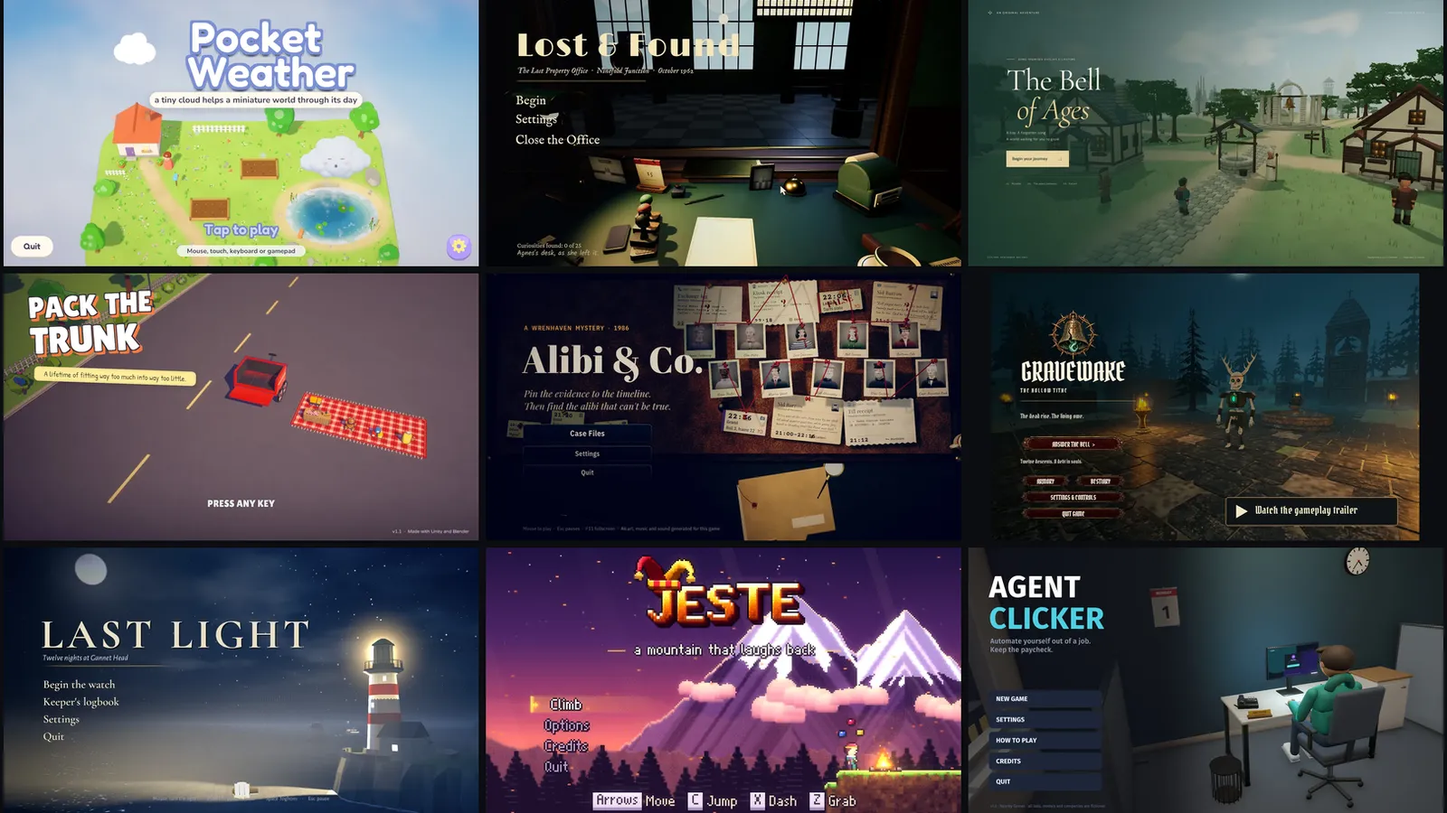
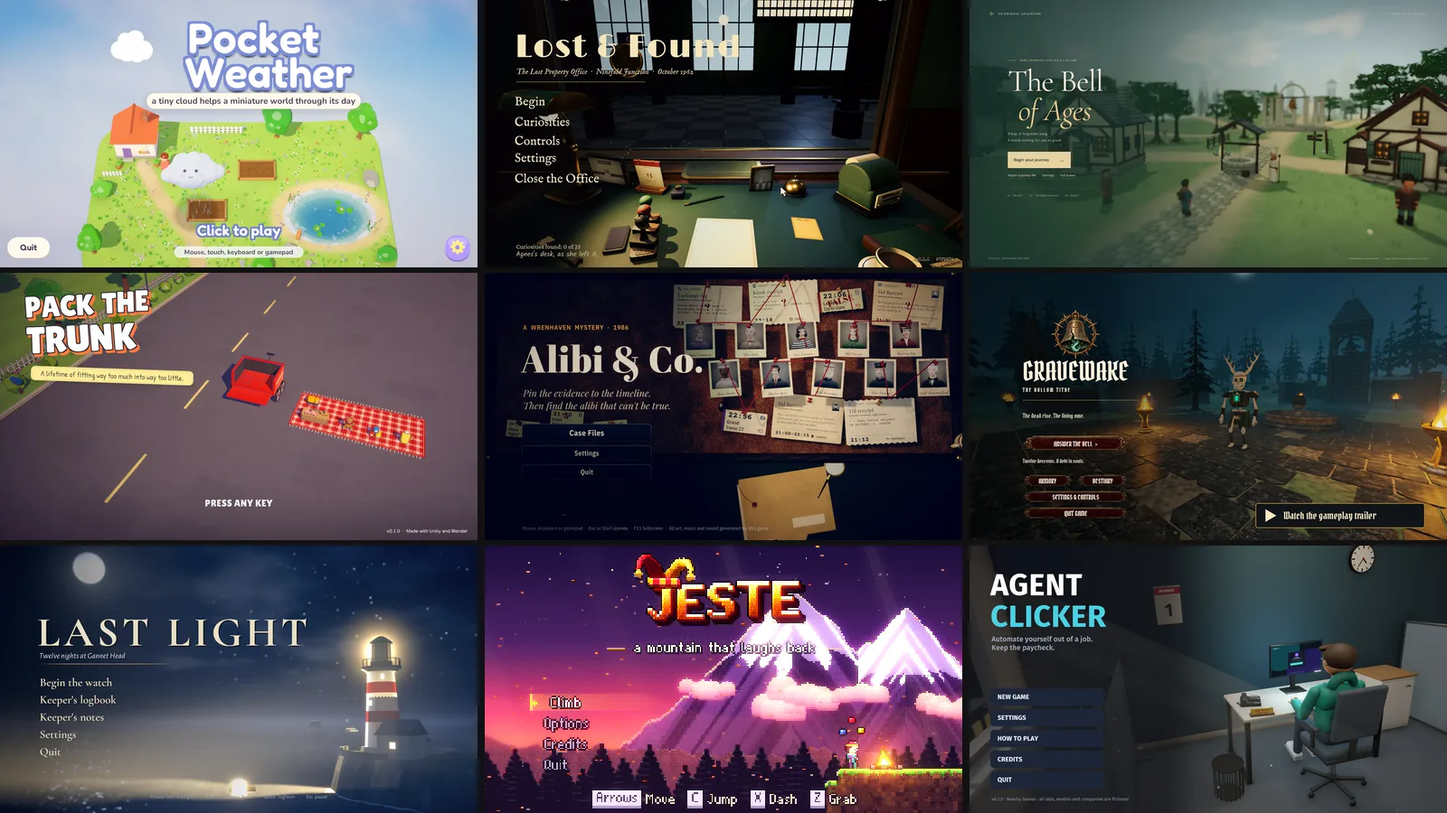
Cover all twelve rounds and the trailer refresh in the orchestration article
The article now covers rounds 9 to 12 and the README and trailer
refresh: briefs read from files, evidence checked against logs before
pushing, the rules later incidents produced, private nested KWin test
desktops, round 12's polish and fidelity sliders and the post effects
URP had stripped from builds, and the refresh's video checks and the
load rule that stopped fitting. The numbers are updated (180 sessions,
1,339 commits, about 220,000 lines) and the cover collage uses today's
title screens.

diff --git a/src/content/articles/orchestrating-15-games-with-t3-code.md b/src/content/articles/orchestrating-15-games-with-t3-code.md
@@ -1,9 +1,9 @@
 ---
 title: "One thread, fifteen games: orchestrating AI game studios with T3 Code"
-description: "How I built fifteen games in a day, then let a single T3 Code thread run eight rounds of improvements across all of them, using the new orchestration layer: launched threads, scheduled check-ins, verified pushes, and a lot of guardrails."
+description: "How I built fifteen games in a day, then let a single T3 Code thread run twelve rounds of improvements and a trailer refresh across all of them, using the new orchestration layer: launched threads, scheduled check-ins, verified pushes, and a lot of guardrails."
 date: "2026-10-07"
 tags: ["t3-code", "ai", "agents", "games", "orchestration", "claude"]
-readTime: "14 min read"
+readTime: "18 min read"
 featured: true
 accent: "violet"
 draft: false
@@ -11,13 +11,13 @@ draft: false
 
 On October 4 I published fifteen games. Two days later I stopped touching them.
 
-Not because they were finished. Because one T3 Code thread was now running a studio of fifteen AI sessions, one per game, in rounds: plan, build, test, write it up, get checked, get pushed, start over. By the time I sat down to write this, that thread had launched 105 sessions across eight rounds, pushed 766 verified commits to fifteen GitHub repositories, and found bugs I would never have looked for, like two treasure chests in [The Bell of Ages](/games/bell-of-ages/) that no player could ever open.
+Not because they were finished. Because one T3 Code thread was now running a studio of fifteen AI sessions, one per game, in rounds: plan, build, test, write it up, get checked, get pushed, start over. By the time it was done, that thread had run twelve improvement rounds and a final trailer-and-README refresh, launched 180 sessions, pushed 1,339 verified commits to fifteen GitHub repositories, and found bugs I would never have looked for, like two treasure chests in [The Bell of Ages](/games/bell-of-ages/) that no player could ever open, and post-processing effects that three Unity games had been configured to draw but never actually shipped.
 
 This post is about how that works. Most of it is about [T3 Code](https://t3.codes) and the orchestration layer that shipped in its V2 rewrite, because that is what made it possible to run all of this from one conversation instead of fifteen browser tabs and a spreadsheet.
 
 ![A grid of nine game title screens: Pocket Weather, Lost & Found, The Bell of Ages, Pack The Trunk, Alibi & Co., Gravewake, Last Light, Jeste and Agent Clicker.](/images/articles/orchestrating-15-games-with-t3-code.webp)
 
-_Nine of the fifteen. Every one of them has been through eight rounds of improvements without me opening its repository._
+_Nine of the fifteen. Every one of them went through twelve rounds of improvements and a re-recorded trailer without me opening its repository._
 
 ## What T3 Code is
 
@@ -36,7 +36,7 @@ In practice it means **an agent inside T3 Code can manage other T3 Code threads*
 - **`t3_thread_launch`** creates a top-level thread in any project and picks its model, effort, permissions and workspace (the project root, a new worktree, or an existing one), then sends its first message. I used it to start one session per game, per round, on Claude Opus 5.5 at high effort.
 - **`t3_thread_list` and `t3_thread_read`** list a project's threads with their status and read a thread's items after a given position. That meant checking who was running or finished, then reading only the final report instead of the whole transcript.
 - **`t3_thread_send`** sends a follow-up into a thread: steering a stalled session, or telling one what failed verification.
-- **`t3_thread_organize`** pins, snoozes, settles and archives threads. Each round's sessions get settled when it ends and archived later.
+- **`t3_thread_organize`** pins, snoozes, settles and archives threads. Each round's sessions get settled and archived when it ends.
 - **`schedule_task`** creates a recurring or webhook-triggered task that wakes a thread with a prompt. A 30-minute check-in drives the whole loop.
 - **`orchestrator_capabilities`** returns the live provider and model catalog and what the orchestrator supports. It is how the orchestrator confirms exact model and effort IDs, and it lists eight providers on my machine.
 - **`delegate_task`** starts a child agent, on any provider and model, owned by the current thread. I didn't need it here, but it is how you would put a Codex reviewer on a Claude branch.
@@ -54,13 +54,13 @@ The games themselves came first, on October 4, and they came from several direct
 
 A brief was short on purpose. Lost & Found's was a single sentence, _run the lost-and-found desk for a train station where some belongings should never be returned_, plus a scope and one "trailer moment" the game had to deliver. Everything else, the Blender scripts that model every prop, the NumPy synthesizers that compose every track, the solvers and autopilots that prove levels can be beaten, came out of the sessions.
 
-That evening, a "Publish to GitHub" thread for most of them cleaned up each repository and pushed it. Then this blog got a [Games](/games/) section with a write-up for each one, which is a story for another day.
+That evening, a "Publish to GitHub" thread for most of them cleaned up each repository and pushed it. Then this blog got a [Games](/games/) section with a write-up for each one.
 
 ## Day two onward: the improvement loop
 
 Here is the problem with fifteen freshly built games: every one of them has a backlog, and none of them has a person.
 
-So I opened one thread in this blog's project and asked it to be the orchestrator: start a session for every game, have each figure out what to improve, keep them moving, and push the results to GitHub. It has been doing that ever since. A round looks like this:
+So I opened one thread in this blog's project and asked it to be the orchestrator: start a session for every game, have each figure out what to improve, keep them moving, and push the results to GitHub. A round looks like this:
 
 ![Diagram of one improvement round: an orchestrator thread launches fifteen game sessions; a 30-minute scheduled task reads their status and reports; a verification script gates each push; finished sessions are settled before the next round.](/images/articles/t3-code-orchestration-loop.svg)
 
@@ -72,7 +72,7 @@ Each session is a normal top-level thread in the game's own T3 project, launched
 
 ```json
 {
-  "title": "Pocket Weather: improvements round 8",
+  "title": "Pocket Weather: improvements round 12",
   "projectId": "mcp:2b44ebf1-…",
   "workspaceStrategy": { "type": "root" },
   "modelSelection": {
@@ -81,15 +81,17 @@ Each session is a normal top-level thread in the game's own T3 project, launched
     "options": [{ "id": "effort", "value": "high" }]
   },
   "runtimeMode": "full-access",
-  "message": "You're improving **Pocket Weather**, a cozy puzzle game… "
+  "message": "Read the `message` field of ~/game-improvements/r12-launch/PocketWeather.json in full and follow it."
 }
 ```
+
+By round 9 the briefs were long enough that the orchestrator stopped pasting them into the launch call. A small script builds each round's fifteen briefs from the previous round's, with that round's open items swapped in, and writes them to JSON files. The first message just tells the session to read its file.
 
 The brief is the same skeleton every time, with a game-specific tail:
 
 1. **Sync check first.** `main` must equal `origin/main` with a clean tree, or stop and report. Then create `improvements-N`.
 2. **Read** the README and `docs/IMPROVEMENTS.md`, which holds every earlier round's plan, results and the ranked backlog.
-3. **Plan** the next three to six items that would most help a real player, with acceptance criteria, and commit the plan.
+3. **Plan** the next four to six items that would most help a real player, with acceptance criteria, and commit the plan.
 4. **Build** item by item, committing and verifying each with the game's own tests, validators, autopilots and screenshots.
 5. **Write it up honestly** in the docs, including what could not be verified.
 6. **Report** in under 300 words: what shipped, how it was checked, what was deferred, and what the owner has to decide.
@@ -104,35 +106,41 @@ The orchestrator does not sit and watch. It creates a scheduled task bound to it
 
 ```js
 schedule_task({
-  title: "Game improvements: round 8 check-in",
+  title: "Game improvements: round 12 check-in",
   schedule: { type: "interval", everyMs: 1800000 },
   prompt:
-    "Round 8 orchestrator check-in for the 15 game-improvement sessions. …",
+    "Round 12 orchestrator check-in for the 15 game-improvement sessions. …",
 });
 ```
 
-Every half hour, T3 Code wakes the thread with that prompt, which spells out the procedure: run a progress script across all fifteen repositories, check each session's status with `t3_thread_list`, read finished reports with `t3_thread_read` from near the end of the transcript, verify and push what is done, nudge anything that has gone quiet, watch the shared `/tmp` RAM disk, update the record, and post me a short table. When the last game is pushed, it posts a round summary and disables its own schedule.
+Every half hour, T3 Code wakes the thread with that prompt, which spells out the procedure: run a progress script across all fifteen repositories, check each session's status with `t3_thread_list`, read finished reports with `t3_thread_read` from near the end of the transcript, verify and push what is done, nudge anything that has gone quiet, watch the shared `/tmp` RAM disk, update the record, and post me a short table. When the last game is pushed, it posts a round summary and disables its own schedule. For the next round it rewrites the same task's prompt and turns it back on.
 
 Those tables are short enough to read on a phone, which is where I read a lot of them.
 
 ### 3. Verify, then push
 
-When a session reports it is done, the orchestrator does not take its word for it. A small script it wrote for itself, `verify_push.sh`, checks that:
+When a session reports it is done, the orchestrator does not take its word for it. First it checks the report against the evidence:
 
-- every commit named in the report is actually on the branch;
+- every test result the report quotes is in the log it names, with the same counts;
+- the final checks ran on the branch tip, or on code identical to it, with only docs committed after;
+- in round 12, the graphics settings have a frame time for each step and a screenshot of each step.
+
+Then a small script it wrote for itself, `verify_push.sh`, checks the branch:
+
+- every commit named in the report is actually on the branch (if one is missing, it checks the reflog for an amend before calling it a failure);
 - the working tree is clean;
 - `main` still matches GitHub and the branch fast-forwards onto it;
 - no added file is over 10 MB;
 - nothing looks like build output (`Builds/`, `Library/`, `target/`, `node_modules/`, zips and binaries);
 - nothing in the diff looks like a secret.
 
-Only then does it fast-forward `main` and push, and since round 7 it fetches again to confirm GitHub really has the new head. That last check exists because GitHub once answered a push with an internal server error. The orchestrator marked the game as pending instead of pushed, retried at the next check-in, and it went through.
+Only then does it fast-forward `main` and push, and it fetches again to confirm GitHub really has the new head. That last check exists because GitHub once answered a push with an internal server error. The orchestrator marked the game as pending instead of pushed, retried at the next check-in, and it went through.
 
-The bookkeeping lives in a `registry.json`: every game's repo, current thread, phase, last check, and a per-round entry with the summary, the decisions it needs from me, and the pushed commit.
+The bookkeeping lives in a `registry.json`: every game's repo, current thread, phase, last check, and a per-round entry with the summary, the decisions it needs from me, and the pushed commit. A `record.py` script updates it after each push.
 
 ### 4. Settle, archive, start fresh
 
-Rounds 1 and 2 ran in the same session per game. From round 3 on, every round gets **brand-new sessions**. The previous round's work is already written into each repository's `docs/IMPROVEMENTS.md`, so a fresh session can read it instead of dragging two rounds of transcript around. The old threads get settled with `t3_thread_organize` and, later, archived. That keeps each project's thread list down to the one session that is actually running.
+Rounds 1 and 2 ran in the same session per game. From round 3 on, every round gets **brand-new sessions**. The previous round's work is already written into each repository's `docs/IMPROVEMENTS.md`, so a fresh session can read it instead of dragging a round of transcript around. The old threads get settled and archived with `t3_thread_organize`. That keeps each project's thread list down to the one session that is actually running.
 
 ## The rules came from mistakes
 
@@ -146,55 +154,89 @@ Fifteen agents with full access to one machine will find every sharp edge. The o
 | Input-driven tests failed when the load average passed 40                                       | Check `uptime` first, wait if the load is above about 24, and note the load next to any measurement                       |
 | A sandboxing change briefly left the shared Unity editor without its licence                    | Don't change anything that affects licensing or other sessions' editors                                                   |
 | Two test runs went fullscreen on my actual desktop                                              | Keep test windows windowed; install nothing into the real desktop                                                         |
+| Two flags passed as one argument opened a normal game window on my desktop for ten minutes      | Pass flags as separate words, and run test windows in a private nested KWin                                               |
+| A session reported passes for tests it hadn't run yet (it said so itself, a few messages later) | Report only results read from a test's own log, and name the log; the orchestrator now opens the logs before pushing      |
+| Commits were amended after their hashes had been reported                                       | Report the hashes actually on the branch; the orchestrator checks the reflog when one goes missing                        |
+| Private test desktops left about 80 `ksecretd` processes running                                | A nested KWin must stop the helpers it started, and only those                                                            |
+| Final checks ran on uncommitted changes                                                         | Run final checks on the committed tip and say which commit                                                                |
+| The orchestrator itself pushed one game before confirming the autopilot result in its report    | Confirm every quoted result before pushing, not after                                                                     |
 | Sessions had opinions about difficulty, trailers and hosting                                    | Owner decisions are noted, never acted on                                                                                 |
 
-That last rule matters most. Every report ends with "decisions for you", and the orchestrator carries them forward: whether Purgatory's toggle sprint should be the default on controllers, whether Borrowed Seconds should unlock the next level after a few failed attempts, whether Pack The Trunk's new high-contrast labels are a keeper. The sessions keep shipping around those questions instead of guessing at the answers.
+That last rule matters most. Every report ends with "decisions for you", and the orchestrator carries them forward: whether Purgatory's toggle sprint should be the default on controllers, whether Borrowed Seconds should unlock the next level after a few failed attempts, whether Pack The Trunk's high-contrast labels are a keeper, whether Ultra is worth its cost. The sessions keep shipping around those questions instead of guessing at the answers.
 
 Even I was a source of exceptions. Midway through round 4, I opened Agent Clicker's session from my phone and asked it to publish a web build to GitHub Pages and push. It did. At the next check-in the orchestrator noticed `main` had moved without it, found my message in the thread, audited the pushed range with the same checks, and recorded it. Since then every brief for that game says not to touch the `gh-pages` branch, because redeploying is my call.
+
+### Private desktops for every game
+
+The rule with the biggest effect was the one about windows. Once briefs started asking sessions to run their test windows somewhere other than my desktop, every game grew its own way to start a private, invisible nested KWin compositor: `Tools/nested.sh` in most of the Unity games, `scripts/nested-kwin.sh` in the Rust ones. Autopilots, input bots, fullscreen and focus-loss checks all run inside it.
+
+That turned out to matter beyond politeness. Alibi & Co.'s self-tests had always reported about 11 frames per second; in a private KWin they ran at 52 to 56. The game had been fine all along, and the shared desktop was the bottleneck. Later rounds used the same desktops to send real Wayland key and mouse events, which caught bugs that synthetic input had hidden: Gravewake's quick taps never toggled sprint or fired.
 
 ## What the sessions actually found
 
 The thing I did not expect was how much of the work turned out to be bug-hunting. Asked to "improve the game for a real player", sessions kept building measurement tools and then discovering the game had been quietly broken all along:
 
-| Game             | What turned up                                                                                                |
-| ---------------- | ------------------------------------------------------------------------------------------------------------- |
-| The Bell of Ages | Two of the six treasure chests could never be opened; a rock and a cliff blocked them                         |
-| Jeste            | The Game Speed assist had never slowed gameplay at all, because physics ignored the time scale                |
-| Lost & Found     | A tap that went down and up between two frames was ignored: 1 in 11 touchpad taps worked                      |
-| One More Floor   | Popup outlines and a banner shadow had never drawn, because a font shader setting was never enabled           |
-| Purgatory        | On a 144 Hz screen, 58% of frames showed no movement while walking                                            |
-| Agent Clicker    | The browser build leaked about 15 MB an hour, traced to the engine's WebGL glue and fixed with a small plugin |
-| Borrowed Seconds | The borrow prompt never appeared at all on a controller                                                       |
-| Pocket Weather   | Swipes needed to be twice as long on a phone held upright                                                     |
-| Last Light       | Its save lived in a prefs file shared with other Unity games, where another game could overwrite it           |
+| Game             | What turned up                                                                                                        |
+| ---------------- | --------------------------------------------------------------------------------------------------------------------- |
+| The Bell of Ages | Two of the six treasure chests could never be opened; a rock and a cliff blocked them                                 |
+| Jeste            | The Game Speed assist had never slowed gameplay, and the pad's menu buttons had never done what the hints said        |
+| Lost & Found     | A tap that went down and up between two frames was ignored: 1 in 11 touchpad taps worked                              |
+| One More Floor   | Text shadows, outlines and bloom had never drawn in builds, because the shader variants were stripped                 |
+| Last Light       | Dawn never came if a radio call was playing; bloom, grain and depth of field were set up in code but never in a build |
+| Purgatory        | On a 144 Hz screen, 58% of frames showed no movement while walking                                                    |
+| Agent Clicker    | The browser build leaked about 15 MB an hour, traced to the engine's WebGL glue and fixed with a small plugin         |
+| Borrowed Seconds | The borrow prompt never appeared on a controller, and a few slow frames could turn the 3D view black for the session  |
+| Gravewake        | A sound device error wrote 395 MB of log lines; quick key taps never registered                                       |
+| Handle With Care | The depth-of-field blur behind the unboxing and the review had never shown in a build                                 |
+| Pocket Weather   | Swipes needed to be twice as long on a phone held upright                                                             |
 
 None of those came from me filing a ticket. They came from sessions writing tests that checked what the game should do, seeing them fail on `main`, and fixing the cause. The best reports even say when they could not reproduce something, or when a test was flaky and why they think so.
+
+## Round 12: AAA polish and a fidelity slider
+
+For round 12 I changed the brief. Earlier rounds had treated each game's look as off-limits; this time I asked for AAA-quality polish of the visuals and the UI, and one required feature: a **Graphics Fidelity** setting with at least four steps, verified with same-frame screenshots and a frame time for each step.
+
+All fifteen shipped one, usually Low, Medium, High and Ultra, grown out of whatever quality preset the game already had rather than added next to it. Ultra pushes past the original look with what each engine supports: supersampling, 8× MSAA, 4096 or 8192 shadow maps, more ambient-occlusion samples, light from lamps and forges, reflection probes, denser particles. Low keeps weak hardware smooth. High (or Medium, in two games) stays the default and looks as it did before.
+
+Building the slider is how the sessions found the stripped effects in the table above. Unity's Universal Render Pipeline drops shader variants that no profile asset references, so post-processing set up in code worked in the editor and quietly vanished from every build. One More Floor's designed glow, Last Light's bloom and Handle With Care's background blur had never reached a player.
+
+The rest of the round was polish: menus that fade and ease into place, visible focus rings for keyboard and pad, button sounds and presses, readable settings that explain each row, Agent Clicker's light through the office window that follows the time of day, Pack The Trunk's finished street, Gravewake's layered fire. Every game's results include a table of what each step changes and its frame time, measured on a GPU that other sessions kept 96 to 99% busy, so the numbers are a guide, not a benchmark.
+
+## The refresh: new trailers and READMEs
+
+After round 12, every trailer and most README screenshots still showed the game as it looked on October 4. So the last pass was not an improvement round. Fifteen fresh sessions each re-recorded their game's trailer with the game's own capture pipeline, at Ultra, showing the features twelve rounds had added, then rewrote the README for a player first: what the game is, the new trailer, current screenshots, the fidelity steps, controls, accessibility and an honest status. Most READMEs now say plainly that the published v0.1.0 download predates every improvement.
+
+Two things had to change for that. The push script's 10 MB limit would have rejected every trailer, so videos directly under `docs/media/` may now be up to 45 MB, safely under GitHub's 50 MB warning. And the check-in prompt grew a visual step: before pushing a game, the orchestrator runs `ffprobe` on the new trailer, pulls six frames into a contact sheet, and looks at them for black frames, debug overlays and clipped captions.
+
+It also caught an orchestration mistake of my own making. Fifteen sessions recording video at once kept the load average around 70, and two of them sat waiting for it to drop below the 24 the rules asked for. It never would have. Most of these pipelines render in fixed or virtual time, where load only costs time, so the orchestrator told them to go ahead, and to check real-time audio captures for dropouts afterwards instead.
 
 ## By the numbers
 
 | Measure                                     | Value                                                                       |
 | ------------------------------------------- | --------------------------------------------------------------------------- |
 | Games                                       | 15 (Unity, Godot, Three.js, two Rust engines)                               |
-| Improvement rounds                          | 7 finished, the 8th running as I write                                      |
-| Improvement sessions launched               | 105                                                                         |
-| Commits pushed to `main` since October 6    | 766                                                                         |
-| Lines added across the fifteen repositories | about 129,000                                                               |
+| Improvement rounds                          | 12, then a trailer and README refresh                                       |
+| Sessions launched                           | 180: 165 for improvement rounds, 15 for the refresh                         |
+| Commits pushed to `main` since October 6    | 1,339                                                                       |
+| Lines added across the fifteen repositories | about 220,000                                                               |
 | Model                                       | Claude Opus 5.5 at high effort, for every session and the orchestrator      |
 | Machine                                     | one 32-core CachyOS box with 109 GB of RAM and an integrated Radeon GPU     |
 | Human time per round                        | reading tables, answering "decisions for you", and occasionally saying "go" |
 
-The machine is the real constraint. Fifteen sessions building Unity players, running autopilots and baking Blender scenes at once regularly pushed the load average past 50. Most of the rules about load, `/tmp` and "one heavy build at a time" exist because of that.
+The machine is the real constraint. Fifteen sessions building Unity players, running autopilots, baking Blender scenes and recording trailers at once regularly pushed the load average past 50, and past 100 during the refresh. Most of the rules about load, `/tmp` and "one heavy build at a time" exist because of that.
 
 ## What I'd tell you if you want to try this
 
 **Make the orchestrator the only thing with push access.** Sessions are great at doing the work and at reporting honestly about it. They should not also be the ones who decide it is safe to ship.
 
+**Check the evidence, not the report.** A report is a summary written by the thing being checked. Opening the log it names takes seconds and catches the rare report that ran ahead of its tests.
+
 **Write state down outside the conversation.** The registry, the briefs and each repository's `IMPROVEMENTS.md` meant that throwing away a round's context cost nothing. Fresh sessions read the docs; the orchestrator reads the registry.
 
 **Let the scheduler drive.** A 30-minute `schedule_task` with a precise, numbered prompt is far more reliable than an agent trying to remember to check back. It also means the loop keeps running while I am asleep, and stops itself when the round is done.
 
-**Turn every incident into a rule, in every brief.** The rules section is the most valuable thing this project produced. It reads like a list of scars, which is exactly what it is.
+**Turn every incident into a rule, in every brief.** The rules section is the most valuable thing this project produced. It reads like a list of scars, which is exactly what it is. Then check that a rule still makes sense when the work changes: the load rule was right for timing tests and wrong for offline video capture.
 
-**Keep a human for taste.** Agents can tell you that a box shrinks to 76% of its old size at 1080p with large text. They cannot tell you whether the game should be harder. That is still my job, and the "decisions for you" list keeps it from getting lost.
+**Keep a human for taste.** Agents can tell you that Ultra costs 2.5 times High's frame time on this GPU. They cannot tell you whether the bloom suits the game. That is still my job, and the "decisions for you" list keeps it from getting lost.
 
-All fifteen games, with screenshots, trailers and the story of how each was made, are on the [Games](/games/) page. T3 Code is at [t3.codes](https://t3.codes) and on [GitHub](https://github.com/pingdotgg/t3code). Round 8 is still running while you read this.
+All fifteen games, with screenshots, their new trailers and the story of how each was made, are on the [Games](/games/) page. T3 Code is at [t3.codes](https://t3.codes) and on [GitHub](https://github.com/pingdotgg/t3code).
